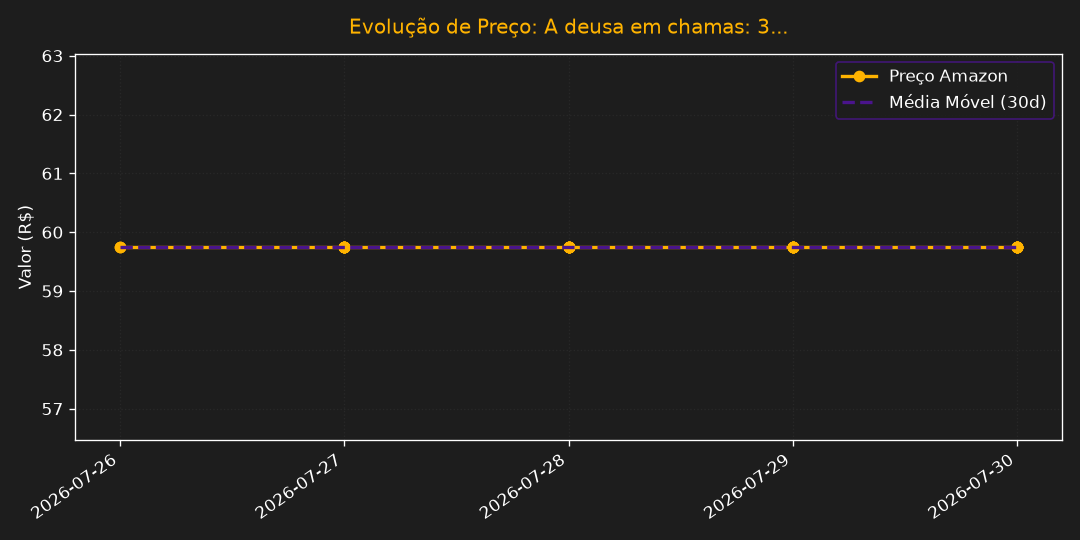
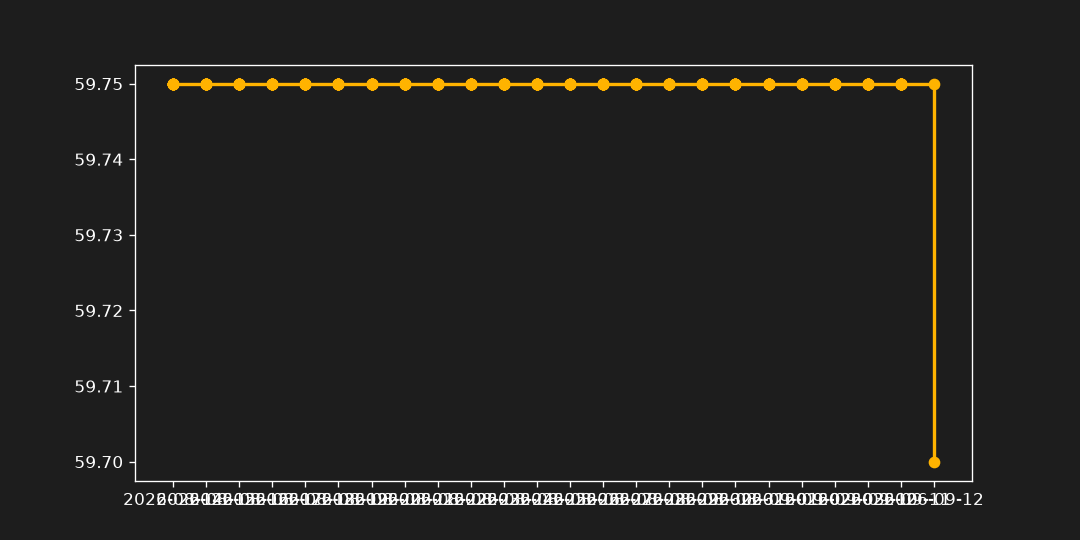
🤖 Bot Mac: Atualizando ofertas [skip ci]

diff --git a/index.html b/index.html
@@ -48,7 +48,7 @@
             <div class="flex flex-col mt-auto mb-5">
                 <div class="flex items-baseline gap-2">
                     <span class="text-2xl font-bold text-white tracking-tight">R$ 279,90</span>
-                    <span class="text-sm text-gray-500 line-through">R$ 233,82</span>
+                    <span class="text-sm text-gray-500 line-through">R$ 233,95</span>
                 </div>
             </div>
             <a href="https://link.amazon/B0bxqDHXJ" target="_blank" rel="nofollow noopener" class="w-full flex items-center justify-center gap-2 py-2.5 rounded-xl bg-white/5 hover:bg-bardo-gold hover:text-bardo-dark text-sm font-bold text-gray-200 transition-all">Comprar na Amazon</a>
@@ -68,7 +68,7 @@
             <div class="flex flex-col mt-auto mb-5">
                 <div class="flex items-baseline gap-2">
                     <span class="text-2xl font-bold text-white tracking-tight">R$ 60,58</span>
-                    <span class="text-sm text-gray-500 line-through">R$ 63,16</span>
+                    <span class="text-sm text-gray-500 line-through">R$ 63,15</span>
                 </div>
             </div>
             <a href="https://link.amazon/B05C027gt" target="_blank" rel="nofollow noopener" class="w-full flex items-center justify-center gap-2 py-2.5 rounded-xl bg-white/5 hover:bg-bardo-gold hover:text-bardo-dark text-sm font-bold text-gray-200 transition-all">Comprar na Amazon</a>
@@ -88,7 +88,7 @@
             <div class="flex flex-col mt-auto mb-5">
                 <div class="flex items-baseline gap-2">
                     <span class="text-2xl font-bold text-white tracking-tight">R$ 40,05</span>
-                    <span class="text-sm text-gray-500 line-through">R$ 46,09</span>
+                    <span class="text-sm text-gray-500 line-through">R$ 46,07</span>
                 </div>
             </div>
             <a href="https://link.amazon/B07BZ9Phr" target="_blank" rel="nofollow noopener" class="w-full flex items-center justify-center gap-2 py-2.5 rounded-xl bg-white/5 hover:bg-bardo-gold hover:text-bardo-dark text-sm font-bold text-gray-200 transition-all">Comprar na Amazon</a>
@@ -148,7 +148,7 @@
             <div class="flex flex-col mt-auto mb-5">
                 <div class="flex items-baseline gap-2">
                     <span class="text-2xl font-bold text-white tracking-tight">R$ 140,33</span>
-                    <span class="text-sm text-gray-500 line-through">R$ 138,68</span>
+                    <span class="text-sm text-gray-500 line-through">R$ 138,69</span>
                 </div>
             </div>
             <a href="https://link.amazon/B04OFbHZF" target="_blank" rel="nofollow noopener" class="w-full flex items-center justify-center gap-2 py-2.5 rounded-xl bg-white/5 hover:bg-bardo-gold hover:text-bardo-dark text-sm font-bold text-gray-200 transition-all">Comprar na Amazon</a>
@@ -188,7 +188,7 @@
             <div class="flex flex-col mt-auto mb-5">
                 <div class="flex items-baseline gap-2">
                     <span class="text-2xl font-bold text-white tracking-tight">R$ 228,12</span>
-                    <span class="text-sm text-gray-500 line-through">R$ 226,15</span>
+                    <span class="text-sm text-gray-500 line-through">R$ 226,16</span>
                 </div>
             </div>
             <a href="https://link.amazon/B0cOS4omj" target="_blank" rel="nofollow noopener" class="w-full flex items-center justify-center gap-2 py-2.5 rounded-xl bg-white/5 hover:bg-bardo-gold hover:text-bardo-dark text-sm font-bold text-gray-200 transition-all">Comprar na Amazon</a>
@@ -208,7 +208,7 @@
             <div class="flex flex-col mt-auto mb-5">
                 <div class="flex items-baseline gap-2">
                     <span class="text-2xl font-bold text-white tracking-tight">R$ 59,36</span>
-                    <span class="text-sm text-gray-500 line-through">R$ 76,85</span>
+                    <span class="text-sm text-gray-500 line-through">R$ 76,80</span>
                 </div>
             </div>
             <a href="https://link.amazon/B0e2PzSTe" target="_blank" rel="nofollow noopener" class="w-full flex items-center justify-center gap-2 py-2.5 rounded-xl bg-white/5 hover:bg-bardo-gold hover:text-bardo-dark text-sm font-bold text-gray-200 transition-all">Comprar na Amazon</a>
@@ -248,7 +248,7 @@
             <div class="flex flex-col mt-auto mb-5">
                 <div class="flex items-baseline gap-2">
                     <span class="text-2xl font-bold text-white tracking-tight">R$ 427,40</span>
-                    <span class="text-sm text-gray-500 line-through">R$ 369,36</span>
+                    <span class="text-sm text-gray-500 line-through">R$ 369,52</span>
                 </div>
             </div>
             <a href="https://link.amazon/B0czAwuOp" target="_blank" rel="nofollow noopener" class="w-full flex items-center justify-center gap-2 py-2.5 rounded-xl bg-white/5 hover:bg-bardo-gold hover:text-bardo-dark text-sm font-bold text-gray-200 transition-all">Comprar na Amazon</a>
@@ -288,7 +288,7 @@
             <div class="flex flex-col mt-auto mb-5">
                 <div class="flex items-baseline gap-2">
                     <span class="text-2xl font-bold text-white tracking-tight">R$ 73,90</span>
-                    <span class="text-sm text-gray-500 line-through">R$ 69,37</span>
+                    <span class="text-sm text-gray-500 line-through">R$ 69,38</span>
                 </div>
             </div>
             <a href="https://link.amazon/B0bJ5jTSU" target="_blank" rel="nofollow noopener" class="w-full flex items-center justify-center gap-2 py-2.5 rounded-xl bg-white/5 hover:bg-bardo-gold hover:text-bardo-dark text-sm font-bold text-gray-200 transition-all">Comprar na Amazon</a>
@@ -308,7 +308,7 @@
             <div class="flex flex-col mt-auto mb-5">
                 <div class="flex items-baseline gap-2">
                     <span class="text-2xl font-bold text-white tracking-tight">R$ 56,90</span>
-                    <span class="text-sm text-gray-500 line-through">R$ 50,68</span>
+                    <span class="text-sm text-gray-500 line-through">R$ 50,70</span>
                 </div>
             </div>
             <a href="https://link.amazon/B075ASsRo" target="_blank" rel="nofollow noopener" class="w-full flex items-center justify-center gap-2 py-2.5 rounded-xl bg-white/5 hover:bg-bardo-gold hover:text-bardo-dark text-sm font-bold text-gray-200 transition-all">Comprar na Amazon</a>
@@ -335,11 +335,11 @@
         </div>
     </article>
     <article class="relative flex flex-col bg-surface rounded-2xl border border-white/5 overflow-hidden hover:border-bardo-gold/40 transition-all duration-300 group shadow-lg">
-        
+        <div class="absolute top-3 left-3 z-10"><span class="px-2.5 py-1 text-[11px] font-bold uppercase tracking-wider text-emerald-400 bg-emerald-500/10 border border-emerald-500/20 rounded-full backdrop-blur-md shadow-lg">Abaixo da Média</span></div>
         <!-- Vitrine com Efeito Hover Swap -->
         <div class="relative h-64 w-full bg-gradient-to-b from-white/[0.03] to-transparent border-b border-white/5 overflow-hidden">
             <!-- Imagem 1: Capa (Soma ao Hover) -->
-            <img src="https://m.media-amazon.com/images/I/61RD8yx2UVL._SL1043_.jpg" alt="Capa de A deusa em chamas: 3" loading="lazy" class="absolute inset-0 w-full h-full p-6 object-contain drop-shadow-[0_15px_25px_rgba(0,0,0,0.6)] transition-opacity duration-500 opacity-100 group-hover:opacity-0" />
+            <img src="assets/capa_guerra_papoula_3.jpg" alt="Capa de A deusa em chamas: 3" loading="lazy" class="absolute inset-0 w-full h-full p-6 object-contain drop-shadow-[0_15px_25px_rgba(0,0,0,0.6)] transition-opacity duration-500 opacity-100 group-hover:opacity-0" />
             <!-- Imagem 2: Gráfico (Aparece no Hover) -->
             <img src="assets/grafico_guerra_papoula_3.png" alt="Gráfico de A deusa em chamas: 3" loading="lazy" class="absolute inset-0 w-full h-full p-4 object-contain drop-shadow-[0_15px_25px_rgba(0,0,0,0.6)] transition-opacity duration-500 opacity-0 group-hover:opacity-100" />
         </div>
@@ -347,7 +347,7 @@
             <h3 class="text-base font-semibold text-gray-100 leading-snug line-clamp-2 mb-4 group-hover:text-bardo-gold transition-colors">A deusa em chamas: 3</h3>
             <div class="flex flex-col mt-auto mb-5">
                 <div class="flex items-baseline gap-2">
-                    <span class="text-2xl font-bold text-white tracking-tight">R$ 59,75</span>
+                    <span class="text-2xl font-bold text-white tracking-tight">R$ 59,70</span>
                     <span class="text-sm text-gray-500 line-through">R$ 59,75</span>
                 </div>
             </div>
@@ -367,8 +367,8 @@
             <h3 class="text-base font-semibold text-gray-100 leading-snug line-clamp-2 mb-4 group-hover:text-bardo-gold transition-colors">O caminho dos reis</h3>
             <div class="flex flex-col mt-auto mb-5">
                 <div class="flex items-baseline gap-2">
-                    <span class="text-2xl font-bold text-white tracking-tight">R$ 126,03</span>
-                    <span class="text-sm text-gray-500 line-through">R$ 97,19</span>
+                    <span class="text-2xl font-bold text-white tracking-tight">R$ 132,90</span>
+                    <span class="text-sm text-gray-500 line-through">R$ 97,29</span>
                 </div>
             </div>
             <a href="https://link.amazon/B0g8PJdyP" target="_blank" rel="nofollow noopener" class="w-full flex items-center justify-center gap-2 py-2.5 rounded-xl bg-white/5 hover:bg-bardo-gold hover:text-bardo-dark text-sm font-bold text-gray-200 transition-all">Comprar na Amazon</a>
@@ -408,7 +408,7 @@
             <div class="flex flex-col mt-auto mb-5">
                 <div class="flex items-baseline gap-2">
                     <span class="text-2xl font-bold text-white tracking-tight">R$ 122,22</span>
-                    <span class="text-sm text-gray-500 line-through">R$ 136,85</span>
+                    <span class="text-sm text-gray-500 line-through">R$ 136,81</span>
                 </div>
             </div>
             <a href="https://link.amazon/B0cBFS3o1" target="_blank" rel="nofollow noopener" class="w-full flex items-center justify-center gap-2 py-2.5 rounded-xl bg-white/5 hover:bg-bardo-gold hover:text-bardo-dark text-sm font-bold text-gray-200 transition-all">Comprar na Amazon</a>
@@ -428,7 +428,7 @@
             <div class="flex flex-col mt-auto mb-5">
                 <div class="flex items-baseline gap-2">
                     <span class="text-2xl font-bold text-white tracking-tight">R$ 148,30</span>
-                    <span class="text-sm text-gray-500 line-through">R$ 146,46</span>
+                    <span class="text-sm text-gray-500 line-through">R$ 146,47</span>
                 </div>
             </div>
             <a href="https://link.amazon/B0f81O992" target="_blank" rel="nofollow noopener" class="w-full flex items-center justify-center gap-2 py-2.5 rounded-xl bg-white/5 hover:bg-bardo-gold hover:text-bardo-dark text-sm font-bold text-gray-200 transition-all">Comprar na Amazon</a>
@@ -608,7 +608,7 @@
             <div class="flex flex-col mt-auto mb-5">
                 <div class="flex items-baseline gap-2">
                     <span class="text-2xl font-bold text-white tracking-tight">R$ 162,10</span>
-                    <span class="text-sm text-gray-500 line-through">R$ 187,90</span>
+                    <span class="text-sm text-gray-500 line-through">R$ 187,80</span>
                 </div>
             </div>
             <a href="https://link.amazon/B037mPoB1" target="_blank" rel="nofollow noopener" class="w-full flex items-center justify-center gap-2 py-2.5 rounded-xl bg-white/5 hover:bg-bardo-gold hover:text-bardo-dark text-sm font-bold text-gray-200 transition-all">Comprar na Amazon</a>
@@ -628,7 +628,7 @@
             <div class="flex flex-col mt-auto mb-5">
                 <div class="flex items-baseline gap-2">
                     <span class="text-2xl font-bold text-white tracking-tight">R$ 41,94</span>
-                    <span class="text-sm text-gray-500 line-through">R$ 37,38</span>
+                    <span class="text-sm text-gray-500 line-through">R$ 37,40</span>
                 </div>
             </div>
             <a href="https://link.amazon/B0ja4Ste6" target="_blank" rel="nofollow noopener" class="w-full flex items-center justify-center gap-2 py-2.5 rounded-xl bg-white/5 hover:bg-bardo-gold hover:text-bardo-dark text-sm font-bold text-gray-200 transition-all">Comprar na Amazon</a>
@@ -668,7 +668,7 @@
             <div class="flex flex-col mt-auto mb-5">
                 <div class="flex items-baseline gap-2">
                     <span class="text-2xl font-bold text-white tracking-tight">R$ 52,21</span>
-                    <span class="text-sm text-gray-500 line-through">R$ 56,56</span>
+                    <span class="text-sm text-gray-500 line-through">R$ 56,55</span>
                 </div>
             </div>
             <a href="https://link.amazon/B0gViTEpL" target="_blank" rel="nofollow noopener" class="w-full flex items-center justify-center gap-2 py-2.5 rounded-xl bg-white/5 hover:bg-bardo-gold hover:text-bardo-dark text-sm font-bold text-gray-200 transition-all">Comprar na Amazon</a>
@@ -688,7 +688,7 @@
             <div class="flex flex-col mt-auto mb-5">
                 <div class="flex items-baseline gap-2">
                     <span class="text-2xl font-bold text-white tracking-tight">R$ 46,27</span>
-                    <span class="text-sm text-gray-500 line-through">R$ 48,15</span>
+                    <span class="text-sm text-gray-500 line-through">R$ 48,14</span>
                 </div>
             </div>
             <a href="https://link.amazon/B08nADndv" target="_blank" rel="nofollow noopener" class="w-full flex items-center justify-center gap-2 py-2.5 rounded-xl bg-white/5 hover:bg-bardo-gold hover:text-bardo-dark text-sm font-bold text-gray-200 transition-all">Comprar na Amazon</a>
@@ -728,7 +728,7 @@
             <div class="flex flex-col mt-auto mb-5">
                 <div class="flex items-baseline gap-2">
                     <span class="text-2xl font-bold text-white tracking-tight">R$ 73,05</span>
-                    <span class="text-sm text-gray-500 line-through">R$ 65,28</span>
+                    <span class="text-sm text-gray-500 line-through">R$ 65,31</span>
                 </div>
             </div>
             <a href="https://link.amazon/B0gpt2mie" target="_blank" rel="nofollow noopener" class="w-full flex items-center justify-center gap-2 py-2.5 rounded-xl bg-white/5 hover:bg-bardo-gold hover:text-bardo-dark text-sm font-bold text-gray-200 transition-all">Comprar na Amazon</a>
@@ -748,7 +748,7 @@
             <div class="flex flex-col mt-auto mb-5">
                 <div class="flex items-baseline gap-2">
                     <span class="text-2xl font-bold text-white tracking-tight">R$ 63,23</span>
-                    <span class="text-sm text-gray-500 line-through">R$ 66,84</span>
+                    <span class="text-sm text-gray-500 line-through">R$ 66,83</span>
                 </div>
             </div>
             <a href="https://link.amazon/B053gl2cU" target="_blank" rel="nofollow noopener" class="w-full flex items-center justify-center gap-2 py-2.5 rounded-xl bg-white/5 hover:bg-bardo-gold hover:text-bardo-dark text-sm font-bold text-gray-200 transition-all">Comprar na Amazon</a>
@@ -768,7 +768,7 @@
             <div class="flex flex-col mt-auto mb-5">
                 <div class="flex items-baseline gap-2">
                     <span class="text-2xl font-bold text-white tracking-tight">R$ 63,15</span>
-                    <span class="text-sm text-gray-500 line-through">R$ 61,70</span>
+                    <span class="text-sm text-gray-500 line-through">R$ 61,71</span>
                 </div>
             </div>
             <a href="https://link.amazon/B09R1newk" target="_blank" rel="nofollow noopener" class="w-full flex items-center justify-center gap-2 py-2.5 rounded-xl bg-white/5 hover:bg-bardo-gold hover:text-bardo-dark text-sm font-bold text-gray-200 transition-all">Comprar na Amazon</a>
@@ -788,7 +788,7 @@
             <div class="flex flex-col mt-auto mb-5">
                 <div class="flex items-baseline gap-2">
                     <span class="text-2xl font-bold text-white tracking-tight">R$ 36,56</span>
-                    <span class="text-sm text-gray-500 line-through">R$ 37,54</span>
+                    <span class="text-sm text-gray-500 line-through">R$ 37,53</span>
                 </div>
             </div>
             <a href="https://link.amazon/B0aKkKOM2" target="_blank" rel="nofollow noopener" class="w-full flex items-center justify-center gap-2 py-2.5 rounded-xl bg-white/5 hover:bg-bardo-gold hover:text-bardo-dark text-sm font-bold text-gray-200 transition-all">Comprar na Amazon</a>
@@ -828,7 +828,7 @@
             <div class="flex flex-col mt-auto mb-5">
                 <div class="flex items-baseline gap-2">
                     <span class="text-2xl font-bold text-white tracking-tight">R$ 54,99</span>
-                    <span class="text-sm text-gray-500 line-through">R$ 55,73</span>
+                    <span class="text-sm text-gray-500 line-through">R$ 55,72</span>
                 </div>
             </div>
             <a href="https://link.amazon/B0hzsQMzC" target="_blank" rel="nofollow noopener" class="w-full flex items-center justify-center gap-2 py-2.5 rounded-xl bg-white/5 hover:bg-bardo-gold hover:text-bardo-dark text-sm font-bold text-gray-200 transition-all">Comprar na Amazon</a>
@@ -848,7 +848,7 @@
             <div class="flex flex-col mt-auto mb-5">
                 <div class="flex items-baseline gap-2">
                     <span class="text-2xl font-bold text-white tracking-tight">R$ 316,45</span>
-                    <span class="text-sm text-gray-500 line-through">R$ 432,68</span>
+                    <span class="text-sm text-gray-500 line-through">R$ 432,25</span>
                 </div>
             </div>
             <a href="https://link.amazon/B04zvHdbV" target="_blank" rel="nofollow noopener" class="w-full flex items-center justify-center gap-2 py-2.5 rounded-xl bg-white/5 hover:bg-bardo-gold hover:text-bardo-dark text-sm font-bold text-gray-200 transition-all">Comprar na Amazon</a>
@@ -868,7 +868,7 @@
             <div class="flex flex-col mt-auto mb-5">
                 <div class="flex items-baseline gap-2">
                     <span class="text-2xl font-bold text-white tracking-tight">R$ 84,50</span>
-                    <span class="text-sm text-gray-500 line-through">R$ 86,82</span>
+                    <span class="text-sm text-gray-500 line-through">R$ 86,81</span>
                 </div>
             </div>
             <a href="https://link.amazon/B0fzjvtp7" target="_blank" rel="nofollow noopener" class="w-full flex items-center justify-center gap-2 py-2.5 rounded-xl bg-white/5 hover:bg-bardo-gold hover:text-bardo-dark text-sm font-bold text-gray-200 transition-all">Comprar na Amazon</a>
@@ -928,7 +928,7 @@
             <div class="flex flex-col mt-auto mb-5">
                 <div class="flex items-baseline gap-2">
                     <span class="text-2xl font-bold text-white tracking-tight">R$ 62,60</span>
-                    <span class="text-sm text-gray-500 line-through">R$ 65,20</span>
+                    <span class="text-sm text-gray-500 line-through">R$ 65,19</span>
                 </div>
             </div>
             <a href="https://link.amazon/B0jllWIXN" target="_blank" rel="nofollow noopener" class="w-full flex items-center justify-center gap-2 py-2.5 rounded-xl bg-white/5 hover:bg-bardo-gold hover:text-bardo-dark text-sm font-bold text-gray-200 transition-all">Comprar na Amazon</a>
@@ -988,7 +988,7 @@
             <div class="flex flex-col mt-auto mb-5">
                 <div class="flex items-baseline gap-2">
                     <span class="text-2xl font-bold text-white tracking-tight">R$ 314,60</span>
-                    <span class="text-sm text-gray-500 line-through">R$ 316,99</span>
+                    <span class="text-sm text-gray-500 line-through">R$ 316,98</span>
                 </div>
             </div>
             <a href="https://link.amazon/B02mXXqIa" target="_blank" rel="nofollow noopener" class="w-full flex items-center justify-center gap-2 py-2.5 rounded-xl bg-white/5 hover:bg-bardo-gold hover:text-bardo-dark text-sm font-bold text-gray-200 transition-all">Comprar na Amazon</a>
@@ -1008,7 +1008,7 @@
             <div class="flex flex-col mt-auto mb-5">
                 <div class="flex items-baseline gap-2">
                     <span class="text-2xl font-bold text-white tracking-tight">R$ 223,00</span>
-                    <span class="text-sm text-gray-500 line-through">R$ 229,56</span>
+                    <span class="text-sm text-gray-500 line-through">R$ 229,54</span>
                 </div>
             </div>
             <a href="https://link.amazon/B01sIcUyP" target="_blank" rel="nofollow noopener" class="w-full flex items-center justify-center gap-2 py-2.5 rounded-xl bg-white/5 hover:bg-bardo-gold hover:text-bardo-dark text-sm font-bold text-gray-200 transition-all">Comprar na Amazon</a>
